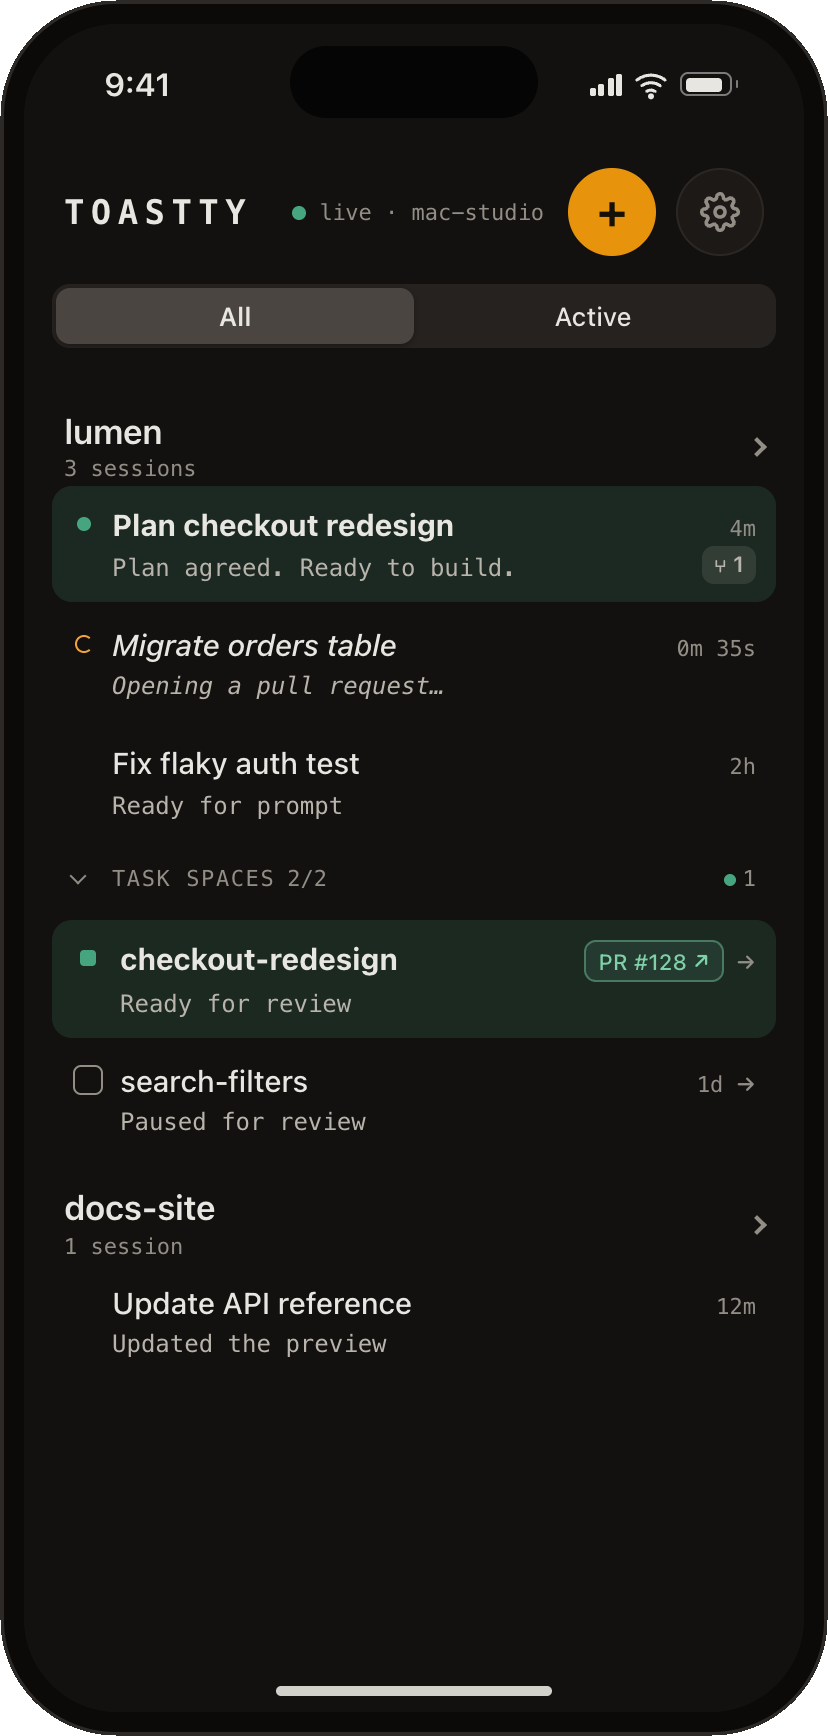
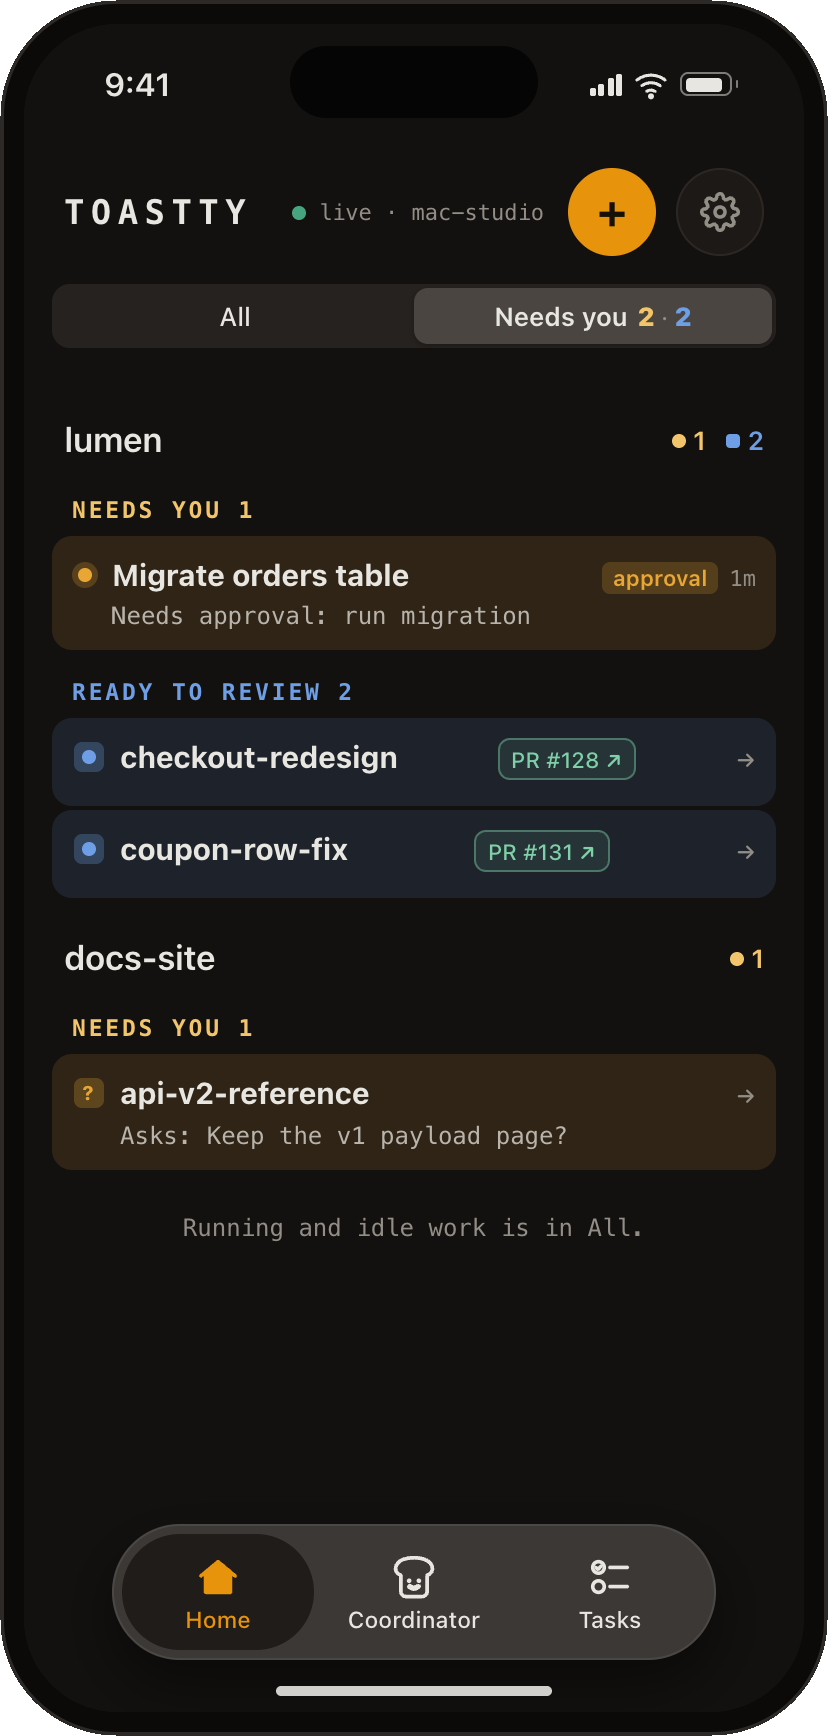
Recapture the README and docs images for tasks and the coordinator
The hero, the workflow images and the Toastty Mobile image are rendered from
the website page of pull request 402 at 1ce5c74b. The sidebar, right panel
and window images, and the new quick entry, Tasks view and coordinator dock
images, come from scripts/website/capture-demo-screenshots.sh on the remote
Mac mini at 91f1b774. Three README captions now say what the rendered page
shows: workflow 1 sends a message to the coordinator, workflow 3 shows the
verification report beside the PR tab, and the phone's Home opens on
Needs you.

Claude-Session: https://claude.ai/code/session_01Dn8sFgjHj5xgoQtBufLaxS

diff --git a/README.md b/README.md
@@ -42,9 +42,9 @@ Updating from 0.9.x? See [what changes](docs/tasks.md#updating-from-09x). To bui
 
 <table>
   <tr>
-    <td width="33%"><img src="docs/assets/readme/workflow-1.png" alt="The quick entry panel over another app, with a checkout-redesign task, its project and its agent chosen"></td>
+    <td width="33%"><img src="docs/assets/readme/workflow-1.png" alt="The quick entry panel over another app, with a message for the coordinator and an attached screenshot"></td>
     <td width="33%"><img src="docs/assets/readme/workflow-2.png" alt="The sidebar's project card with the checkout-redesign task under Ready to review, its PR #128 chip beside it"></td>
-    <td width="33%"><img src="docs/assets/readme/workflow-3.png" alt="The checkout-redesign task space open, with the Merge PR #128 button in its top bar, the agent's terminal, and the pull request in the right panel"></td>
+    <td width="33%"><img src="docs/assets/readme/workflow-3.png" alt="The checkout-redesign task space open, with the Merge PR #128 button in its top bar, the agent's terminal, and its verification report in the right panel"></td>
   </tr>
   <tr>
     <td>Press <code>Option+Shift+T</code> in any app and describe the task. Its agent starts in a task space of its own and moves into a git worktree when you say to implement.</td>
@@ -119,7 +119,7 @@ See [Right Panel](docs/right-panel.md) for shortcuts, Recently Opened, and link 
 
 ### Toastty Mobile (TestFlight)
 
-<img src="docs/assets/readme/mobile.png" alt="Toastty Mobile on an iPhone: Home with the lumen project's sessions and tasks under Needs you, Ready to review and Running, the checkout-redesign task with its PR #128 chip, and the Home, Coordinator and Tasks tabs" width="260" align="right">
+<img src="docs/assets/readme/mobile.png" alt="Toastty Mobile on an iPhone: Home on Needs you, with the lumen project's session and tasks under Needs you and Ready to review, the checkout-redesign task with its PR #128 chip, and the Home, Coordinator and Tasks tabs" width="260" align="right">
 
 The same sidebar, on your iPhone, over your private tailnet.
 
